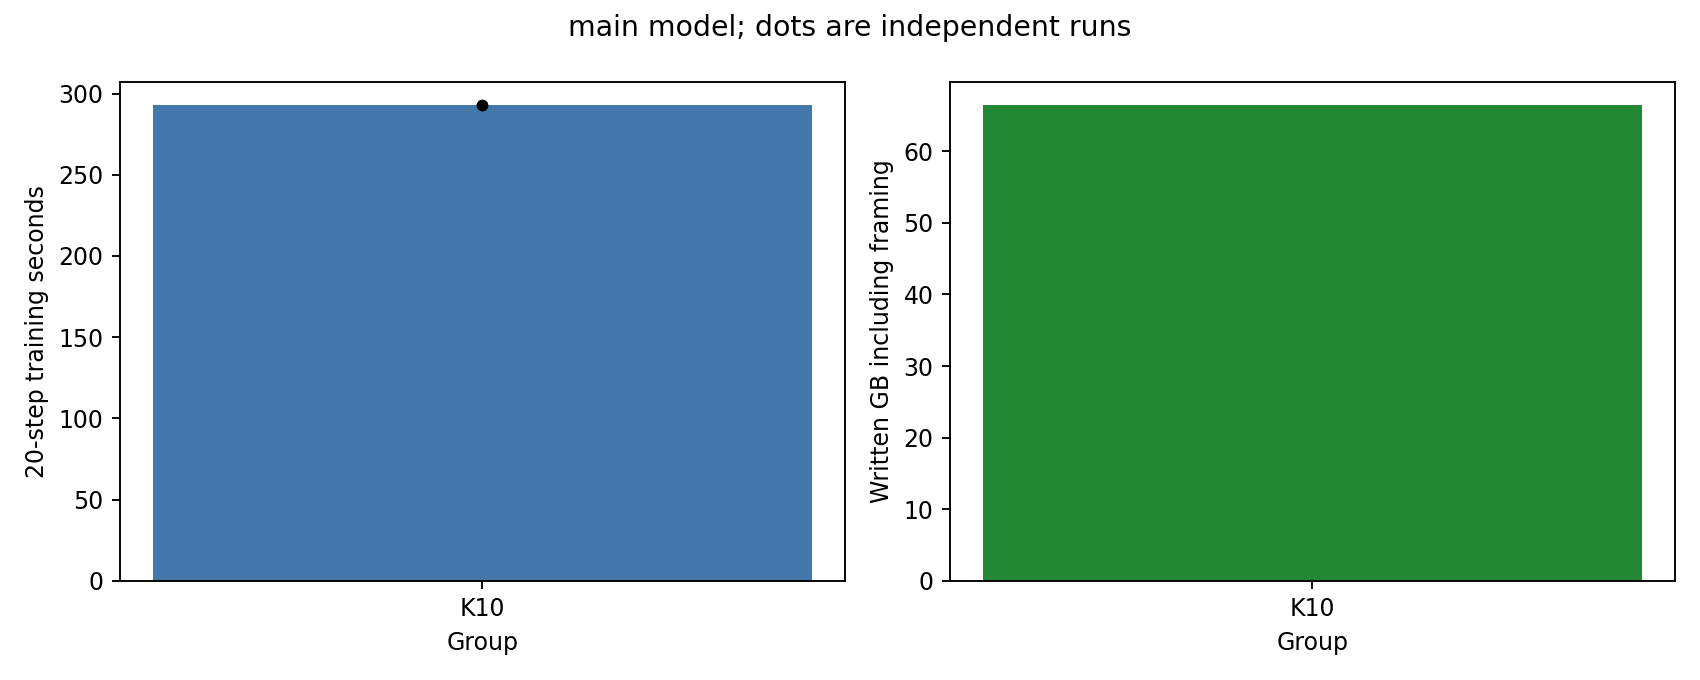
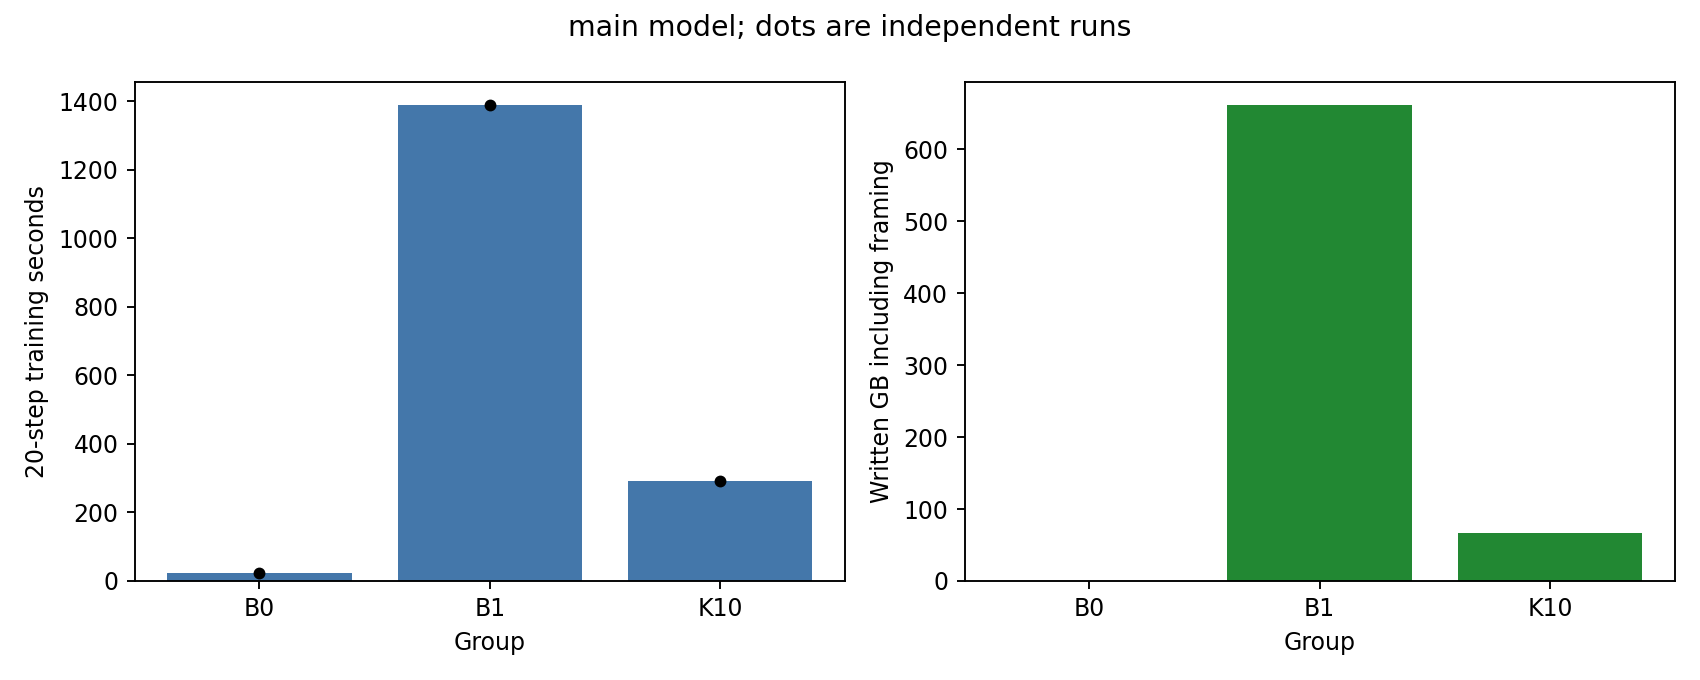
Publish incremental checkpoint progress and measured evidence

diff --git a/results/incremental-phase1-20260916/REPORT.md b/results/incremental-phase1-20260916/REPORT.md
@@ -1,6 +1,6 @@
 # 增量检查点第一阶段实验报告
 
-当前状态：执行中，未完成项不计为通过。已完成 3/34 项覆盖。
+当前状态：执行中，未完成项不计为通过。已完成 4/34 项覆盖。
 
 实验固定 TP4、序列长度 128、micro-batch 1、FP32 权重/BF16 计算、AdamW、种子 42。各组从相同初始 FULL 恢复模型、优化器和随机状态，预热后连续运行 20 个优化器 step，每步保存。主模型 Qwen3-8B，辅模型 Qwen3-4B；两者同属 Qwen3，不据此声称跨模型家族泛化。
 
@@ -11,6 +11,7 @@
 | 模型 | 组 | 次数 | 20 步训练/s | 全部保存完成/s | 相对 B0 减速 | 实际写入/GB | 训练 loss 完全一致 |
 |---|---|---:|---:|---:|---:|---:|---|
 | main | B0 | 1 | 22.392 | 22.392 | 0.00% | 0.000 | True |
+| main | B1 | 1 | 1387.319 | 1449.158 | 6095.69% | 661.271 | True |
 | main | K10 | 1 | 292.710 | 300.700 | 1207.23% | 66.409 | True |
 
 写入量包含帧元数据、对齐和提交页；初始化 FULL 单独保留，不混入每步增量比例。主要性能预算为 3%，同时展示 1% 和 5%。单次运行及有波动的基线不能提供精确置信区间。
@@ -47,7 +48,6 @@
 
 ## 待完成项
 
-- main-B1
 - main-K5
 - main-K20
 - auxiliary-B0
@@ -78,3 +78,24 @@
 - p5-ablation-5
 - p5-ablation-6
 - auxiliary-profile
+
+## main 空间与工作量预算
+
+权重 32.763 GB，可选择块 124976，小参数 1232896 字节；每次扫描约 65.523 GB。三档 Top-K 均需评分全量候选。
+
+完整训练状态对应扫描量约 196.600 GB，仅为预算，未扩展实际检测范围。
+
+## 图表
+
+![Main timeline](figures/phase-timeline-main.png)
+
+![Main demo](figures/demo-main.png)
+
+## 已测链路分段
+
+| 组 | 评分/ms | 全局选择/ms | 打包流/ms | D2H 流/ms | payload 校验/ms | 上次提交等待/ms |
+|---|---:|---:|---:|---:|---:|---:|
+| main:B1 | 0.000 | 0.000 | 12.471 | 441.006 | 5502.367 | 60721.170 |
+| main:K10 | 2976.039 | 1548.085 | 未采集 | 未采集 | 547.812 | 7326.757 |
+
+数值为 step/rank 观测的中位数，不将其作为独立实验重复。打包与 D2H 使用 ACL 流事件，包含可能的 Host 提交间隙；总捕获时间还包含分配和描述符构建。
